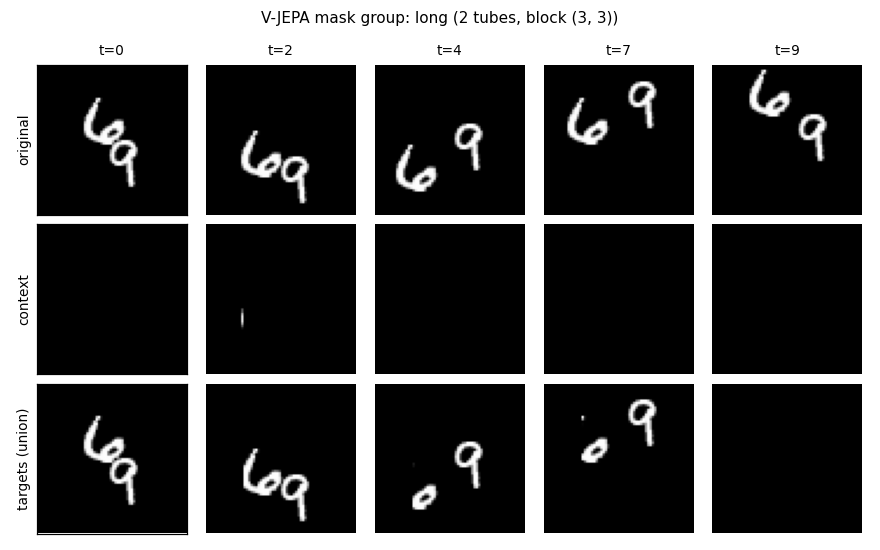
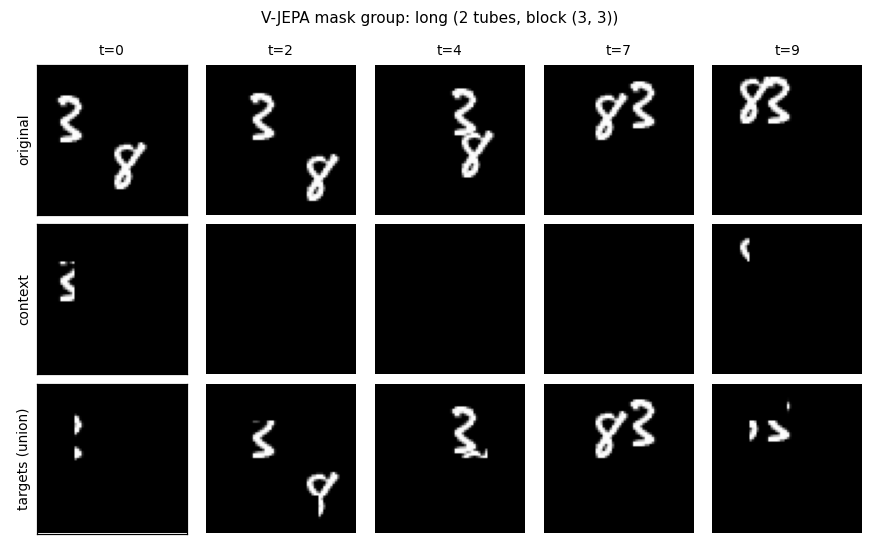
V-JEPA tutorial: add animated mask gifs and a Core insights section
vjepa_extras.py: new save_mask_animation() function uses matplotlib
animation to produce an animated gif for each mask group (original |
context | targets), updated frame by frame across the full clip. The
gif format is what the eb_jepa video_jepa README uses for visual proof
that masks behave like tubes -- same (row, col) cells held out at every
timestep while the digits move.

vjepa_tutorial.md:
- Embed the two new gifs (short and long range) right after the static
  mask grids, with a one-paragraph note about what the animation makes
  obvious (tube footprint is fixed in space).
- New "Core insights" section before "What's next" listing the five
  things V-JEPA gets right: latent prediction, tube masking, two mask
  scales, EMA target encoder, L1 loss.

diff --git a/vjepa_extras.py b/vjepa_extras.py
@@ -47,6 +47,35 @@ def save_group_masks(video, ctx_idx, pred_idx, label, encoder, path, n_frames_sh
     plt.tight_layout(); plt.savefig(path, dpi=110); plt.close()
 
 
+def save_mask_animation(video, ctx_idx, pred_idx, label, encoder, path):
+    """Animated gif: original | context | target across all T frames."""
+    import matplotlib.animation as animation
+    v = (video[0, 0].detach().cpu() + 0.5).clamp(0, 1)
+    T_frames, H, _ = v.shape
+    cm = _patches_to_pixel_mask(ctx_idx, encoder.t_grid, encoder.s_grid,
+                                 encoder.t_patch, encoder.patch_size, T_frames, H)
+    tm = _patches_to_pixel_mask(pred_idx, encoder.t_grid, encoder.s_grid,
+                                 encoder.t_patch, encoder.patch_size, T_frames, H)
+    fig, axes = plt.subplots(1, 3, figsize=(7.5, 2.8))
+    fig.suptitle(f"V-JEPA mask group: {label}", fontsize=10)
+    ims = []
+    for ax, title in zip(axes, ["original", "context", "targets"]):
+        ax.set_title(title, fontsize=9); ax.set_xticks([]); ax.set_yticks([])
+    im0 = axes[0].imshow(v[0].numpy(), cmap="gray", vmin=0, vmax=1)
+    im1 = axes[1].imshow((v[0] * cm[0]).numpy(), cmap="gray", vmin=0, vmax=1)
+    im2 = axes[2].imshow((v[0] * tm[0]).numpy(), cmap="gray", vmin=0, vmax=1)
+
+    def update(t):
+        im0.set_data(v[t].numpy())
+        im1.set_data((v[t] * cm[t]).numpy())
+        im2.set_data((v[t] * tm[t]).numpy())
+        return im0, im1, im2
+
+    anim = animation.FuncAnimation(fig, update, frames=T_frames, interval=200, blit=True)
+    anim.save(path, writer="pillow", dpi=110)
+    plt.close()
+
+
 def save_loss_curves(losses_per_group, path):
     plt.figure(figsize=(6, 3.5))
     for label, losses in losses_per_group.items():
@@ -71,6 +100,10 @@ def main(epochs=3):
                          f"{g['label']} ({g['n_blocks']} tubes, block {g['block_hw']})",
                          out["ctx_enc"],
                          f"{SAMPLES_DIR}/vjepa_masks_{g['label']}.png")
+        save_mask_animation(videos[0:1], g["ctx"][0], g["pred"][0],
+                            f"{g['label']} ({g['n_blocks']} tubes, block {g['block_hw']})",
+                            out["ctx_enc"],
+                            f"{SAMPLES_DIR}/vjepa_masks_{g['label']}.gif")
 
     save_loss_curves(out["losses_per_group"], f"{SAMPLES_DIR}/vjepa_loss.png")
     print(f"artifacts in ./{SAMPLES_DIR}/")

diff --git a/vjepa_tutorial.md b/vjepa_tutorial.md
@@ -48,6 +48,13 @@ The mask-grid figures below are real outputs from one training step:
 
 Top row: the original video frames (we show 5 evenly-spaced timesteps). Middle row: the **context** — what the encoder sees. Bottom row: the **targets** — what the predictor must reconstruct. Notice that the masks are identical across timesteps: that's the "tube" property. Short-range tubes nibble the corners; long-range tubes hide most of the frame.
 
+Animated, the tube property is clearer — the mask stays put in space while the digits move:
+
+![Short-range tubes animated](./samples/vjepa_masks_short.gif)
+![Long-range tubes animated](./samples/vjepa_masks_long.gif)
+
+Original frames on the left, context (visible to the encoder) in the middle, targets (what the predictor reconstructs) on the right. The black rectangles are the tube footprints — same `(row, col)` cells at every timestep.
+
 ## Building blocks
 
 ### Tubelet encoder
@@ -218,6 +225,22 @@ The loss is reported per mask group. Long-range tubes are harder (less context) 
 Both curves drop steeply for the first ~100 steps, then plateau in the 0.05–0.06 L1 range. The plateau is the noise floor: with random Conv3d features as targets and tight context, there's a limit to how well a tiny predictor can hit them.
 
 Moving MNIST has no class labels, so we don't run a linear probe here. (The I-JEPA tutorial does that on CIFAR-10.) The proof that the algorithm trains is the loss curve plus the masks rendering correctly.
+
+## Core insights
+
+Five things V-JEPA gets right, in roughly the order they matter:
+
+1. **Predict embeddings, not pixels.** Inherited from I-JEPA. The encoder is free to discard pixel-level texture and lighting and spend capacity on whatever's predictable across spacetime. There is no pixel decoder anywhere in the model.
+
+2. **Tubes, not random patches.** Tube masking — a spatial block held constant across *every* temporal slice — kills the cheapest temporal shortcut (copy from the previous frame). The predictor must use spatially distant context, which pushes the encoder toward higher-level features.
+
+3. **Two mask scales, not one.** The 8×0.15 short-range group covers small targets with rich context (easy locally, lots of detail). The 2×0.7 long-range group hides most of the frame and forces global reasoning. Training on both at once gives a curriculum-by-batch effect — the encoder has to do both jobs.
+
+4. **EMA target encoder is load-bearing.** The target encoder is a slow-moving copy of the context encoder. Late in training it tracks a recent-history-mean of the context encoder rather than its current state. Without this, the loss collapses — the network learns to output whatever the target encoder happens to output, which is whatever the network just output.
+
+5. **L1, not L2.** The paper switched from squared error to absolute error and reports it's more stable. Latent-space targets carry occasional outliers; L1 cares less about them.
+
+The first three are about *what* you predict; the last two are about *how* you train. Both matter equally — strip any one of them and the method stops working.
 
 ## What's next
 